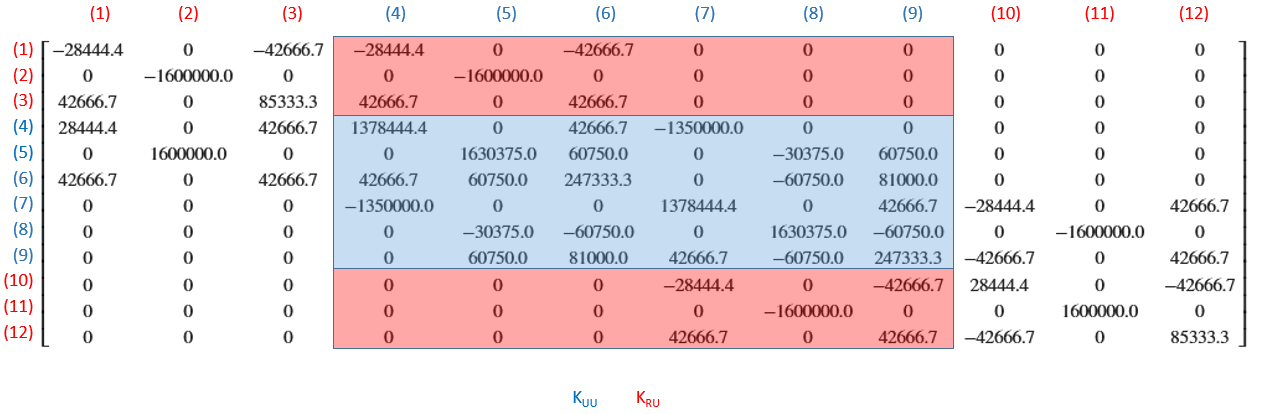
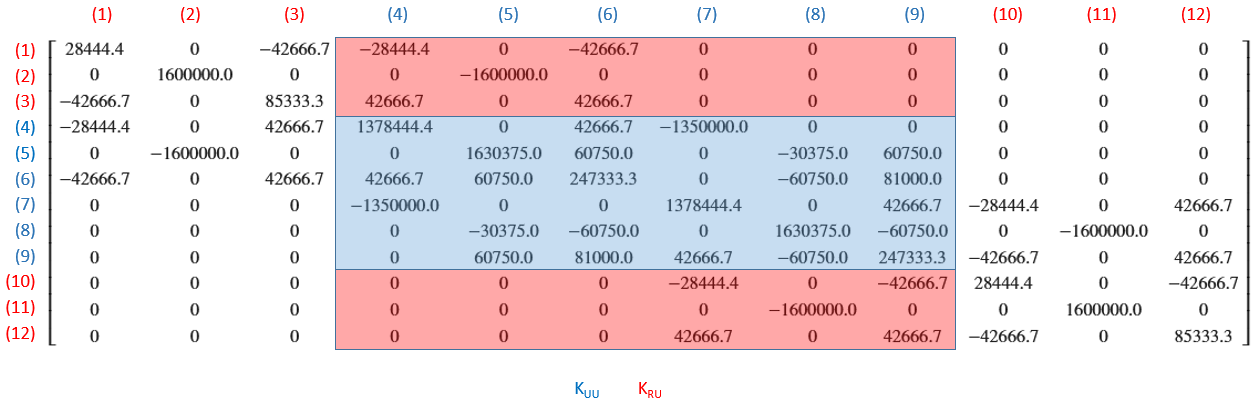
-

diff --git a/ihu_courses_ebook/mitroa/example7/mitroiki_functs.py b/ihu_courses_ebook/mitroa/example7/mitroiki_functs.py
@@ -96,3 +96,42 @@ def P_point_load_at_distance_a(P: float, L: float, a: float, ignore_axial=True) 
                     [-(P*a/L**3)*(L**2 - b**2 + a*b)],
                     [P*a**2*b/L**2]])        
     return p
+
+
+# def TranformMatrix(theta: float) -> Matrix:
+#     """Return the transformation matrix for an element.
+
+#     Args:
+#         theta: Angle of the element.
+
+#     Returns:
+#         The transformation matrix for the element.
+#     """
+#     c = sym.cos(theta)
+#     s = sym.sin(theta)
+#     T = Matrix([[c, s, 0, 0, 0, 0],
+#                 [-s, c, 0, 0, 0, 0],
+#                 [0, 0, 1, 0, 0, 0],
+#                 [0, 0, 0, c, s, 0],
+#                 [0, 0, 0, -s, c, 0],
+#                 [0, 0, 0, 0, 0, 1]])
+#     return T
+
+def TranformMatrix(theta: float) -> Matrix:
+    """Return the transformation matrix for an element.
+
+    Args:
+        theta: Angle of the element.
+
+    Returns:
+        The transformation matrix for the element.
+    """
+    c = sym.cos(theta)
+    s = sym.sin(theta)
+    T = Matrix([[c, -s, 0, 0, 0, 0],
+                [s, c, 0, 0, 0, 0],
+                [0, 0, 1, 0, 0, 0],
+                [0, 0, 0, c, -s, 0],
+                [0, 0, 0, s, c, 0],
+                [0, 0, 0, 0, 0, 1]])
+    return T
